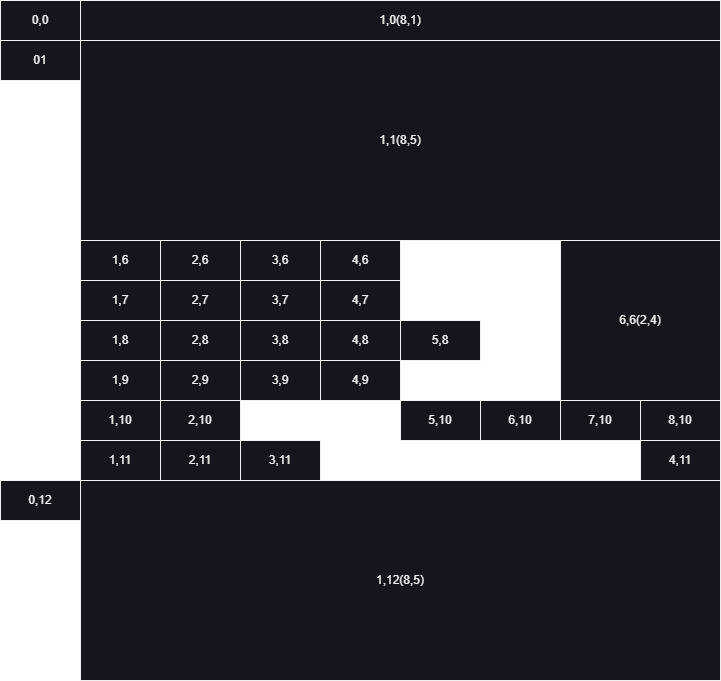
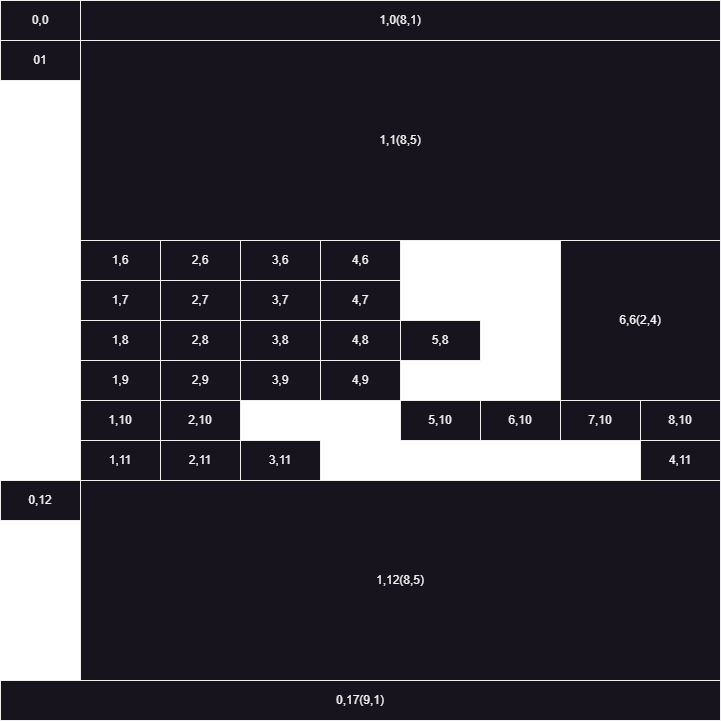
feature : re pregressbar

diff --git a/fms_restart/src/main/java/com/util/system_parameters.java b/fms_restart/src/main/java/com/util/system_parameters.java
@@ -50,41 +50,43 @@ public class system_parameters {
     private static final int NONE = GridBagConstraints.NONE;
     private static final int BOTH = GridBagConstraints.BOTH;
     private static final int WEST = GridBagConstraints.WEST;
+    private static final int CENTER = GridBagConstraints.CENTER;
 
     public static final int gbc[][] = { {0,0,1,1,0,0,NONE,WEST},    //jlb_filepathway
                                         {0,1,1,1,0,0,NONE,WEST},    //jlb_fileinformation
                                         {0,12,1,1,0,0,NONE,WEST},   //jlb_filecontent
                                         {1,9,1,1,0,0,NONE,WEST},  //jlb_textforecolor
-                                        {3,9,1,1,0,0,NONE,WEST},  //jlb_textbackcolor
+                                        {3,9,1,1,0,0,NONE,CENTER},  //jlb_textbackcolor
                                         {1,10,1,1,0,0,NONE,WEST}, //jlb_textsize
-                                        {5,10,1,1,0,0,NONE,WEST}, //jlb_textsizevalue
+                                        {5,10,1,1,0,0,NONE,CENTER}, //jlb_textsizevalue
                                         {1,0,8,1,1,0,BOTH,WEST},    //jtf_filepathway
                                         {1,1,8,5,1,1,BOTH,WEST},  //jsp_fileinformation
                                         {1,12,8,5,1,1,BOTH,WEST}, //jsp_filecontent
                                         {6,6,3,4,0,0,BOTH,WEST},  //jsp_jl
-                                        {1,6,1,1,0,0,NONE,WEST},  //jcb_filesize
-                                        {2,6,1,1,0,0,NONE,WEST},  //jcb_isfile
-                                        {3,6,1,1,0,0,NONE,WEST},  //jcb_isdir
-                                        {4,6,2,1,0,0,BOTH,WEST},  //jcb_canread
-                                        {1,7,1,1,0,0,NONE,WEST},  //jcb_canwrite
-                                        {2,7,1,1,0,0,NONE,WEST},  //jcb_ishidden
-                                        {3,7,1,1,0,0,NONE,WEST},  //jcb_lastmodify
-                                        {4,7,2,1,0,0,BOTH,WEST},  //jcb_filename
-                                        {1,8,1,1,0,0,NONE,WEST},  //jcb_filepathway
-                                        {2,8,1,1,0,0,NONE,WEST},  //jcb_fileabosptahway
-                                        {3,8,1,1,0,0,NONE,WEST},  //jrb_style1
-                                        {4,8,1,1,0,0,NONE,WEST},  //jrb_style2
-                                        {5,8,1,1,0,0,NONE,WEST},  //jrb_usersetting
-                                        {2,9,1,1,0,0,NONE,WEST},  //jcombo_textforecolor
-                                        {4,9,2,1,0,0,BOTH,WEST},  //jcombo_textbackcolor
+                                        {1,6,1,1,1,0,BOTH,WEST},  //jcb_filesize
+                                        {2,6,1,1,1,0,BOTH,WEST},  //jcb_isfile
+                                        {3,6,1,1,1,0,BOTH,CENTER},  //jcb_isdir
+                                        {4,6,2,1,1,0,BOTH,WEST},  //jcb_canread
+                                        {1,7,1,1,1,0,BOTH,WEST},  //jcb_canwrite
+                                        {2,7,1,1,1,0,BOTH,WEST},  //jcb_ishidden
+                                        {3,7,1,1,1,0,BOTH,CENTER},  //jcb_lastmodify
+                                        {4,7,2,1,1,0,BOTH,WEST},  //jcb_filename
+                                        {1,8,1,1,1,0,BOTH,WEST},  //jcb_filepathway
+                                        {2,8,1,1,1,0,BOTH,WEST},  //jcb_fileabosptahway
+                                        {3,8,1,1,1,0,BOTH,CENTER},  //jrb_style1
+                                        {4,8,1,1,1,0,BOTH,WEST},  //jrb_style2
+                                        {5,8,1,1,1,0,BOTH,WEST},  //jrb_usersetting
+                                        {2,9,1,1,1,0,BOTH,WEST},  //jcombo_textforecolor
+                                        {4,9,2,1,1,0,BOTH,WEST},  //jcombo_textbackcolor
                                         {2,10,3,1,1,0,BOTH,WEST}, //jsl_textsize
-                                        {6,10,1,1,0,0,NONE,WEST}, //jtb_bold
-                                        {7,10,1,1,0,0,NONE,WEST}, //jtb_italics
-                                        {8,10,1,1,0,0,NONE,WEST},   //jtb_underline
-                                        {1,11,1,1,0,0,NONE,WEST}, //jbt_open
-                                        {2,11,1,1,0,0,NONE,WEST}, //jbt_read
-                                        {3,11,0,1,1,0,NONE,WEST}, //jbt_encode
+                                        {6,10,1,1,1,0,BOTH,WEST}, //jtb_bold
+                                        {7,10,1,1,1,0,BOTH,WEST}, //jtb_italics
+                                        {8,10,1,1,1,0,BOTH,WEST},   //jtb_underline
+                                        {1,11,1,1,0,0,BOTH,WEST}, //jbt_open
+                                        {2,11,1,1,0,0,BOTH,WEST}, //jbt_read
+                                        {3,11,1,1,1,0,BOTH,WEST}, //jbt_encode
                                         {4,11,0,1,1,0,BOTH,WEST}, //jbt_decode
+                                        {0,17,9,2,1,0,BOTH,WEST},   //jpb_pregress
     };
 
     public static Color[][] color = {   {Color.BLACK,Color.WHITE},

diff --git a/fms_restart/src/main/java/com/example/fms_restart.java b/fms_restart/src/main/java/com/example/fms_restart.java
@@ -23,7 +23,7 @@ import com.util.system_parameters;
 public class fms_restart 
 {
     private void objset(){
-        object_list.jfr.setSize(600,800);
+        object_list.jfr.setSize(800,600);
         object_list.jfr.setDefaultCloseOperation(WindowConstants.EXIT_ON_CLOSE);
         object_list.jfr.setTitle(system_parameters.system_name);
         object_list.jfr.setLayout(new GridBagLayout());
@@ -380,6 +380,9 @@ public class fms_restart
         for(int i=0 ; i<object_list.jbt.length ; i++){
             object_list.GUIcomp.add(object_list.jbt[i]);
         }
+        
+        //handel progressbar
+        object_list.GUIcomp.add(object_list.jpb_progress);
 
         //add on frame
         for(int i=0 ; i<object_list.GUIcomp.size() ; i++){

diff --git a/fms_restart/src/main/java/com/example/object_list.java b/fms_restart/src/main/java/com/example/object_list.java
@@ -10,6 +10,7 @@ import javax.swing.JComponent;
 import javax.swing.JFrame;
 import javax.swing.JLabel;
 import javax.swing.JList;
+import javax.swing.JProgressBar;
 import javax.swing.JRadioButton;
 import javax.swing.JScrollPane;
 import javax.swing.JSlider;
@@ -119,4 +120,6 @@ public class object_list {
                                                     jbt_decode
 
     };
+
+    static JProgressBar jpb_progress = new JProgressBar();
 }
